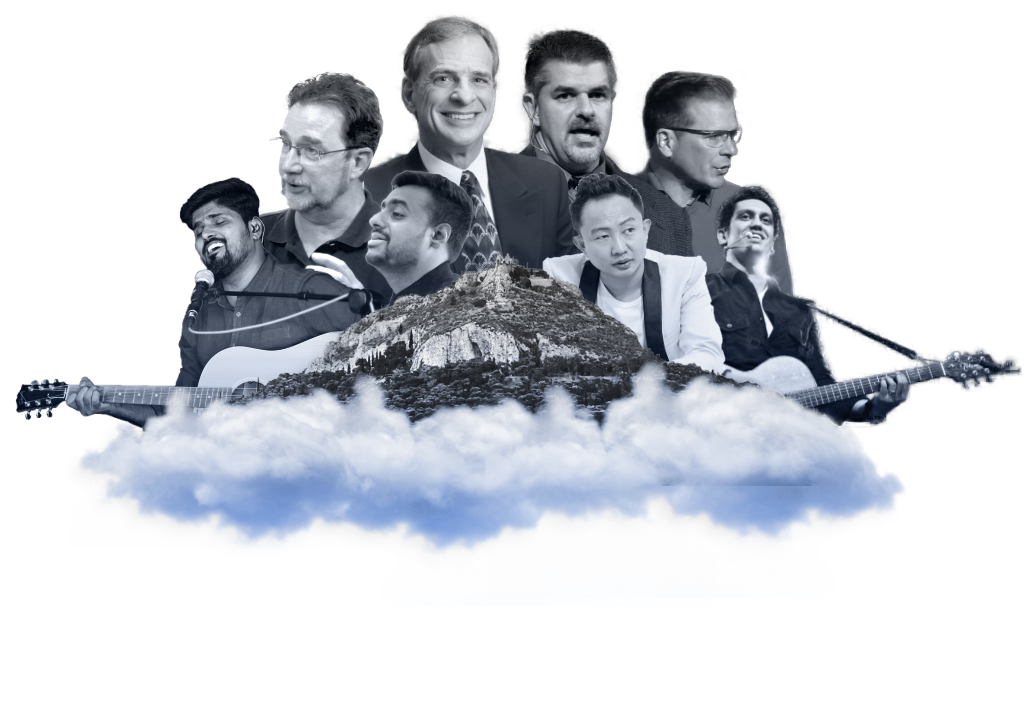
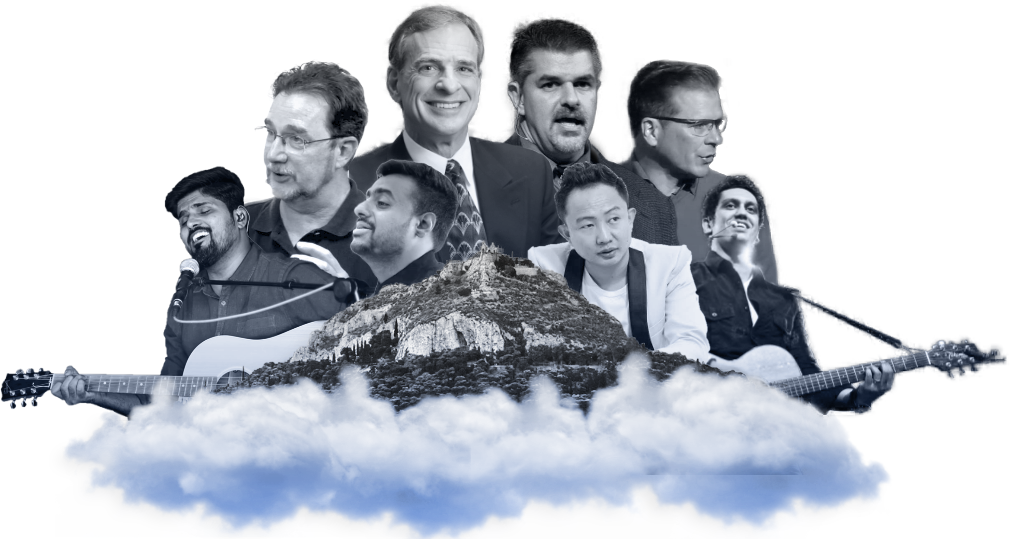
feat(landing): made the call-to-action and a basic hero (0.6)

diff --git a/pages/index.vue b/pages/index.vue
@@ -8,7 +8,41 @@
         <img src="~assets/areopagus.png" alt="Areopagus" id="areopagus-logo" />
       </a>
     </div>
-    <div class="container">
+    <div class="main-hero">
+      <img src="~assets/mountain.png" alt="Mountain" id="mountain" />
+      <img
+        src="~assets/areopagus-2021.png"
+        alt="Areopagus 2021"
+        id="areopagus-2021"
+      />
+      <a
+        href="https://www.airmeet.com/e/518df8d0-5cef-11eb-ae4b-6d583263e902"
+        class="`
+        px-6
+        py-4
+        mt-10
+        font-bold
+        tracking-wider
+        text-white
+        uppercase
+        shadow-lg
+        md:mt-16
+        bg-gradient-to-tr
+        from-blue-700
+        to-blue-500
+        rounded-xl
+        transition-all
+        duration-300
+        ease-in-out
+        transform
+        hover:scale-110
+        hover:shadow-xl
+        `"
+        target="_blank"
+        >Register here</a
+      >
+    </div>
+    <div class="container pt-12 md:pt-20">
       <h1 class="title light-gradient-text">
         FAQ
       </h1>
@@ -91,7 +125,7 @@
           <h3>Who are the speakers?</h3>
           <p>
             The speakers are Dr Frank Turek, Dr Fazale Rana, Tom Gilson and Dr
-            William Lane Craig
+            William Lane Craig.
           </p>
         </div>
 
@@ -106,16 +140,33 @@
         <div>
           <h3>Is there registration for the first 3 days?</h3>
           <p>
-            No. The first 3 days are open to all and can be attended without any
-            registration.
+            Yes! To register for free,
+            <a
+              href="https://www.airmeet.com/e/518df8d0-5cef-11eb-ae4b-6d583263e902"
+              target="_blank"
+              class="underline"
+              >click here</a
+            >.
           </p>
         </div>
 
         <div>
           <h3>Where can I attend the conference?</h3>
           <p>
-            The first 3 days will be live streamed on our YouTube channel 'SAFT
-            Apologetics'.
+            Upon successful registration you'll get the link to attend the
+            event. The conference is hosted on AirMeet.
+          </p>
+        </div>
+
+        <div>
+          <h3>What is the device requirement to access AirMeet?</h3>
+          <p>
+            AirMeet suggests that attendees use Google Chrome browser and
+            desktop/laptop instead of mobile/tablets. This is because the
+            attendee experience is much better on desktop/laptop. Using other
+            browsers will lead to lag unlike Google Chrome which is very
+            compatible with AirMeet. You can always reach out to us via email or
+            social media to know more.
           </p>
         </div>
 
@@ -130,11 +181,7 @@
 
         <div>
           <h3>How can I take part in the Q&A?</h3>
-          <p>
-            The Q&A is hosted on Mentimeter. At the start of each day and
-            throughout the conference the host will inform and remind the
-            details required to partake in the Q&A.
-          </p>
+          <p>The Q&A is hosted on AirMeet itself.</p>
         </div>
 
         <div>
@@ -185,12 +232,28 @@ export default Vue.extend({});
   }
 }
 
+.main-hero {
+  @apply pt-40;
+  @apply grid;
+  @apply w-full;
+  @apply justify-items-center;
+
+  #mountain {
+    @apply relative;
+    left: 10px;
+    width: Min(90%, 1000px);
+  }
+
+  #areopagus-2021 {
+    width: Min(85%, 700px);
+  }
+}
+
 .title {
   @apply text-left;
   @apply font-bold;
   @apply text-6xl;
-  @apply pt-24;
-  @apply mb-10;
+  @apply mb-8;
 }
 
 .logos {
@@ -202,6 +265,7 @@ export default Vue.extend({});
   @apply w-screen;
   @apply my-4;
   @apply h-24;
+  @apply z-50;
 
   #saft-logo {
     @apply w-12;
